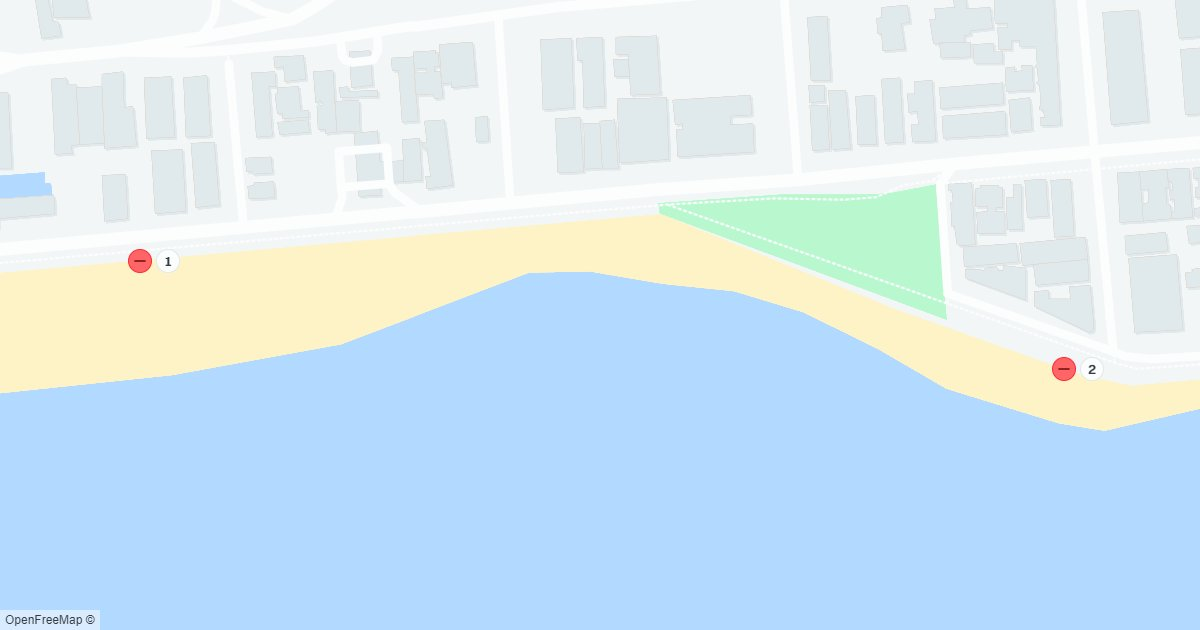
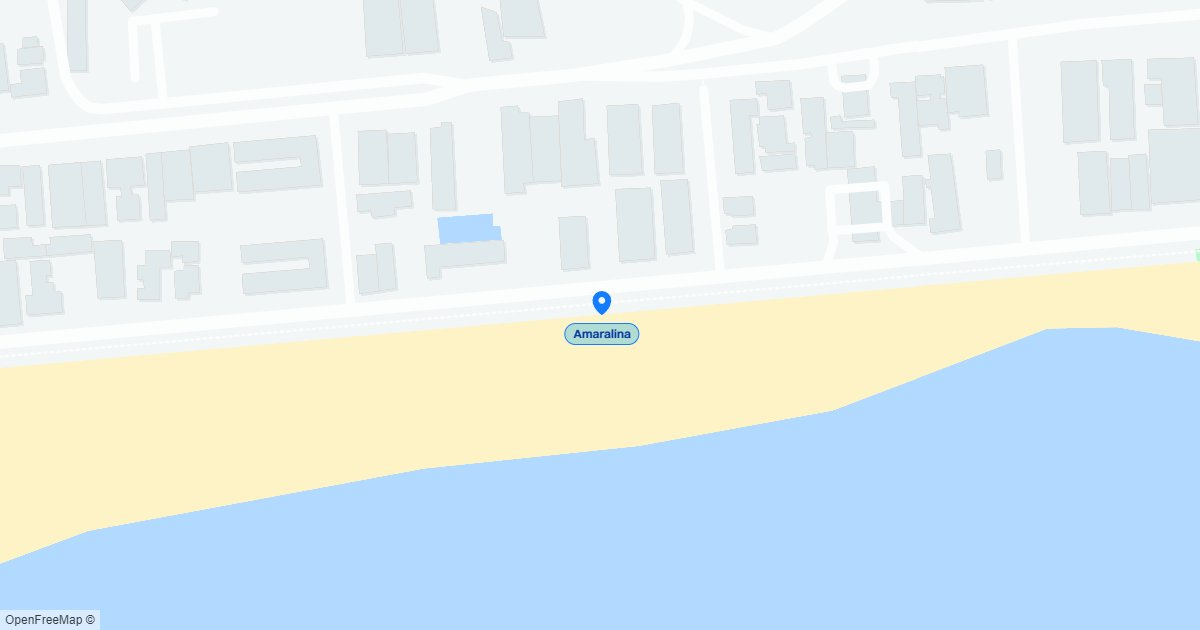
fix: previa com um unico pino centralizado, saida animada da pilula e texto 'Link copiado com sucesso.'

diff --git a/scripts/share-images.ts b/scripts/share-images.ts
@@ -5,6 +5,7 @@
 // mudar, não a cada boletim. Acessa os tiles do OpenFreeMap (ver docs/decisions.md).
 //   npm run share:images            todas as praias
 //   npm run share:images -- <slug>  só a praia dada
+//   SHARE_ORIGIN=http://localhost:4321 npm run share:images   com o servidor de dev que já está rodando
 import { spawn } from 'node:child_process';
 import { mkdir } from 'node:fs/promises';
 import { fileURLToPath } from 'node:url';
@@ -14,7 +15,9 @@ import { buildSiteModel } from '../src/lib/site/build-beach-models.ts';
 import { toMarkers } from '../src/lib/site/map-markers.ts';
 
 const PORT = 4399;
-const ORIGIN = `http://localhost:${PORT}`;
+// SHARE_ORIGIN: usa um servidor de dev já rodando (o Astro só deixa um por projeto) e não sobe outro.
+const EXTERNAL = process.env.SHARE_ORIGIN;
+const ORIGIN = EXTERNAL ?? `http://localhost:${PORT}`;
 const OUT = fileURLToPath(new URL('../public/share/', import.meta.url));
 
 const inputs = await loadSalvadorInputs();
@@ -34,12 +37,14 @@ if (only.length && slugs.length !== only.length) {
   process.exit(1);
 }
 
-const server = spawn(
-  process.execPath,
-  ['node_modules/astro/bin/astro.mjs', 'dev', '--port', String(PORT)],
-  { stdio: 'ignore' },
-);
-const stop = () => server.kill();
+const server = EXTERNAL
+  ? null
+  : spawn(
+      process.execPath,
+      ['node_modules/astro/bin/astro.mjs', 'dev', '--port', String(PORT)],
+      { stdio: 'ignore' },
+    );
+const stop = () => server?.kill();
 process.on('exit', stop);
 
 async function waitForServer() {

diff --git a/docs/decisions.md b/docs/decisions.md
@@ -737,7 +737,7 @@ Substitui o "pendente" da sessão 16 e o "desabilitado" da sessão 24c para **Co
 - **Link (R6):** `/praia/<slug>/`, página estática por praia com as meta tags da prévia (`og:*`) e redirecionamento para `/?praia=<slug>`, que abre a ficha com o **estado atual**. O redirecionamento é por script (`location.replace`), não por `meta refresh`: quem lê o link para a prévia (WhatsApp) não executa script e fica na página com as tags `og:*`; um `meta refresh` pode levá-lo à página inicial, que não tem `og:image` (prévia sem miniatura, relatada por Caio). Slug desconhecido em `?praia=` é ignorado. A câmera espera o mapa terminar de aparecer antes de enquadrar a praia.
 - **Texto da prévia:** status + "Boletim nº X · emitido em dd/mm/aaaa" + "Fonte: Inema", do momento em que o site foi gerado (R6), com as regras da ficha: R3 mantém o último status e acrescenta "Boletim desatualizado" (data da última aparição); R4 mostra só "Sem resultado" com o boletim atual. Sem boletim, não afirma nada. Funções puras em `src/lib/share/share.ts`, com testes.
 - **Mensagem do WhatsApp:** só nome da praia e link, sem status nem data, porque a mensagem enviada fica como estava (R6). Abre `wa.me/?text=` em nova aba.
-- **Imagem de prévia:** o pino da praia selecionado (azul, com o nome) sobre o mapa, 1200×630, em `public/share/<slug>.jpg` (JPEG, qualidade 85: o WhatsApp não mostra prévias pesadas, em geral acima de ~300 KB; o PNG de 1200×630 chegava a 288 KB), a mesma imagem da miniatura do painel (recorte central). Gerada por `npm run share:images [slug]` (`scripts/share-images.ts`), que sobe o `astro dev`, abre a página só de dev `/dev/share-render/<slug>` no Chrome ou Edge instalado e tira a foto; usa a regra de produção (só os pontos que o site mostra). Como a imagem **não leva status nem data**, só posição, ela é versionada no Git e regenerada quando o catálogo muda (não a cada boletim), em vez de rodar no build do Actions (o runner precisaria de navegador e acessar os tiles a cada deploy). Praia de vários pontos: a imagem enquadra todos, que aparecem em pins numerados; praia de um ponto: zoom 17,5 (aproximado a pedido de Caio, para o pino aparecer maior na miniatura de 300 px).
+- **Imagem de prévia:** o pino da praia selecionado (azul, com o nome) sobre o mapa, 1200×630, em `public/share/<slug>.jpg` (JPEG, qualidade 85: o WhatsApp não mostra prévias pesadas, em geral acima de ~300 KB; o PNG de 1200×630 chegava a 288 KB), a mesma imagem da miniatura do painel (recorte central). Gerada por `npm run share:images [slug]` (`scripts/share-images.ts`), que sobe o `astro dev`, abre a página só de dev `/dev/share-render/<slug>` no Chrome ou Edge instalado e tira a foto; usa a regra de produção (só os pontos que o site mostra). Como a imagem **não leva status nem data**, só posição, ela é versionada no Git e regenerada quando o catálogo muda (não a cada boletim), em vez de rodar no build do Actions (o runner precisaria de navegador e acessar os tiles a cada deploy). Praia de vários pontos: **um pino só**, na posição do Ponto 1 (ajuste de Caio: a prévia é da praia, e mostrar vários pontos, com um deles fora do quadro, confundia; a média dos pontos chegou a cair no mar), sempre centralizado; zoom 17,5 (aproximado a pedido de Caio, para o pino aparecer maior na miniatura de 300 px).
 - **Nova dependência (dev):** `playwright-core` (sem baixar navegador; usa o instalado). Só para gerar as imagens.
 - **Pendente:** ler os Termos do OpenFreeMap antes de publicar (a imagem leva a atribuição "OpenFreeMap ©" do mapa); conferir a prévia real no WhatsApp depois da publicação (cache do WhatsApp e `site` do Astro apontam para o GitHub Pages); textos novos em `docs/copy.md`.
 
@@ -748,7 +748,7 @@ Substitui o "pendente" da sessão 16 e o "desabilitado" da sessão 24c para **Co
 
 ### Aviso de link copiado (pedido de Caio)
 
-- **Sai o texto "Link copiado." do painel.** No lugar, a pílula do estado "Carregando o mapa…" (Figma 117:4900, que a faixa azul substituiu na sessão 23) volta como componente reutilizável `NoticePill` (`notice-pill.astro`): o spinner dá lugar ao ícone de check (`check`, nó 30:98; `check-24` derivado de `check-20` como os outros 24 px) e o texto vira "Link copiado". Mesma aparência (ícone em `surface/accent/default`, texto em `body/medium`, 56 px) e mesma animação de entrada e saída do nome do pin (`pin-label`, 500 ms; sem animação com movimento reduzido).
+- **Sai o texto "Link copiado." do painel.** No lugar, a pílula do estado "Carregando o mapa…" (Figma 117:4900, que a faixa azul substituiu na sessão 23) volta como componente reutilizável `NoticePill` (`notice-pill.astro`): o spinner dá lugar ao ícone de check (`check`, nó 30:98; `check-24` derivado de `check-20` como os outros 24 px) e o texto vira "Link copiado com sucesso." (ajuste de Caio; antes "Link copiado"). Mesma aparência (ícone em `surface/accent/default`, texto em `body/medium`, 56 px) e mesma animação de entrada e saída do nome do pin (`pin-label`, 500 ms; sem animação com movimento reduzido).
 - **Posição (premissa):** centralizada na parte visível do mapa, a 24 px de baixo no desktop (à esquerda do sidebar) e logo acima da folha inferior no mobile (60% do palco). Embaixo, e não no topo como a de carregando, para não cobrir a faixa de aviso (Desatualizado, Sem resultado), que ocupa o topo do mapa. Fica 2,5 s (`COPY_FEEDBACK_MS`); copiar de novo reinicia. **Ajuste (Caio):** a pílula entra de baixo para cima (+8 px → 0) e sai no sentido inverso (de cima para baixo), já que fica embaixo do mapa; o check no botão dura só 1,2 s (`COPY_BUTTON_MS`).
 - **Botão de copiar:** o ícone `copy` dá lugar ao `check` por 1,2 s (nova prop `swapIcon` do ButtonIcon, ligada por `data-swapped`; os dois ícones ficam empilhados e o principal continua na árvore de acessibilidade, então o botão nunca perde o nome "Copiar link").
 - **Falha ao copiar:** a mesma pílula com o ícone de alerta e "Não foi possível copiar o link" (substitui mostrar o link para copiar à mão, que usava o texto removido). Leitor de tela: a região `role="status"` é fixa e as pílulas entram nela.

diff --git a/docs/components.md b/docs/components.md
@@ -20,7 +20,7 @@ Situação no Figma: **Componentizado** ou **Pendente de componentizar** (existe
 | SearchPanel         | desktop (painel) e mobile (tela cheia): inicial (bairros), bairro selecionado, resultados, sem resultado de busca (provisório)                                                                                                                                                                | Nós `117:5075` e `117:5257` (só o estado inicial)            | Pendente de componentizar | `src/components/search-panel.astro`                                         |
 | SearchResultItem    | nome, bairro · pontos, "N de M pontos impróprios" (D1), chip de status, "Boletim desatualizado"; hover, foco (só teclado)                                                                                                                                                                     | Sem nó (derivado por lógica, pedido de Caio)                 | Pendente de componentizar | `src/components/search-panel.astro`                                         |
 | SearchSkeleton      | blocos estáticos (título, chip, campo, rótulo, grade de 7 bairros) enquanto o mapa carrega; sem animação                                                                                                                                                                                      | Imagens de Caio (sem nó)                                     | Pendente de componentizar | `src/components/search-panel.astro` (classes `sk*`)                         |
-| NoticePill          | ícone + texto; check + "Link copiado" (ou alerta); entra e sai como o nome do pin                                                                                                                                                                                                             | Nó `117:4900` (pílula "Carregando o mapa…", reaproveitada)   | Pendente de componentizar | `src/components/notice-pill.astro`                                          |
+| NoticePill          | ícone + texto; check + "Link copiado com sucesso." (ou alerta); entra e sai como o nome do pin                                                                                                                                                                                                | Nó `117:4900` (pílula "Carregando o mapa…", reaproveitada)   | Pendente de componentizar | `src/components/notice-pill.astro`                                          |
 | SharePanel          | desktop e mobile; texto, miniatura (imagem de prévia), WhatsApp e copiar link; abre pelo botão de ícone da ficha e pelo "Compartilhar praia" da Classificação                                                                                                                                 | Nó `126:5695` (tela Compartilhar praia / Desktop)            | Pendente de componentizar | `src/components/share-panel.astro`                                          |
 | ClassificationPanel | desktop; Própria (único texto no design); Imprópria pendente (sem oferta); `Ver classificação` no BeachPanel abre, voltar e fechar                                                                                                                                                            | Nó `125:3895` (tela Classificação / Desktop)                 | Pendente de componentizar | `src/components/classification-panel.astro`                                 |
 | SourcePanel         | desktop; Fonte e como ler (glossário, fontes e limites, créditos do mapa, Boletim original); aberto pelo botão de informação do cabeçalho e por Como ler e fonte na ficha; voltar, fechar e Esc                                                                                               | Nó `126:4345` (tela Como ler e fonte / Desktop)              | Pendente de componentizar | `src/components/source-panel.astro`                                         |

diff --git a/docs/copy.md b/docs/copy.md
@@ -124,7 +124,7 @@ Sessão 11: "Posição aproximada" e "Posição muito aproximada" (linhas acima)
 | Título                                  | Compartilhar praia                                                                                                          | Figma                                               |
 | Texto de abertura                       | Quem abrir o link vai direto para a ficha desta praia, com a fonte e a data do boletim.                                     | Figma                                               |
 | Botões                                  | Compartilhar via WhatsApp · (ícone) Copiar link                                                                             | Figma; rótulo do ícone derivado                     |
-| Aviso após copiar (pílula sobre o mapa) | Link copiado                                                                                                                | **Provisório**                                      |
+| Aviso após copiar (pílula sobre o mapa) | Link copiado com sucesso.                                                                                                   | **Provisório**                                      |
 | Cópia negada (pílula, ícone de alerta)  | Não foi possível copiar o link                                                                                              | **Provisório**                                      |
 | Mensagem do WhatsApp                    | Confira a balneabilidade de {praia} no Praieros: {link}                                                                     | **Provisório** (sem status nem data, R6)            |
 | Prévia, título                          | {praia} · Praieros                                                                                                          | **Provisório**                                      |
